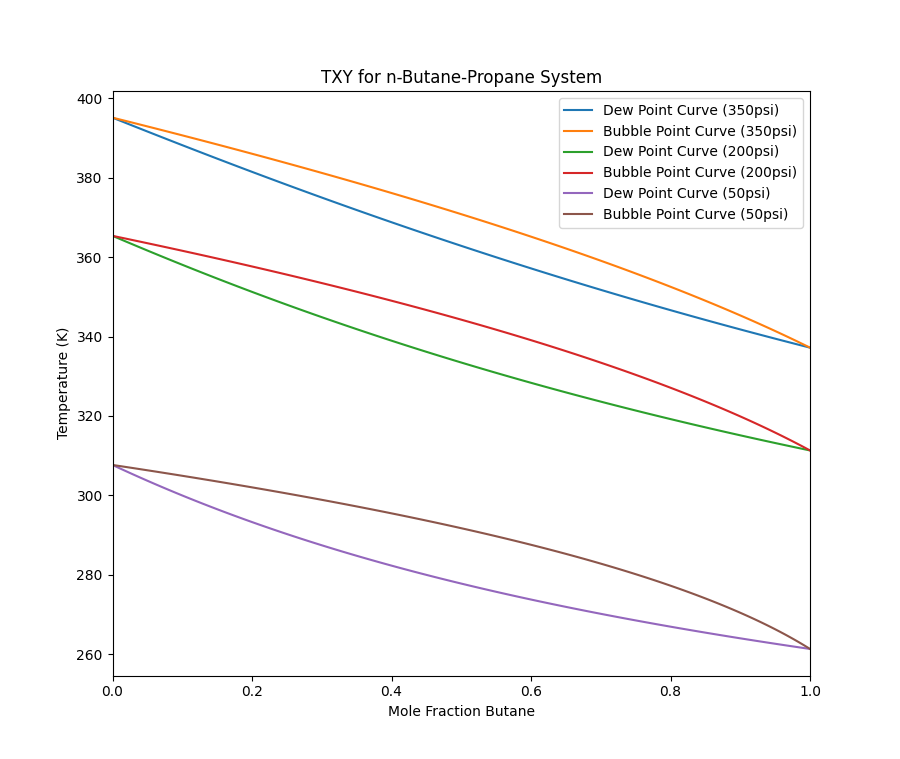
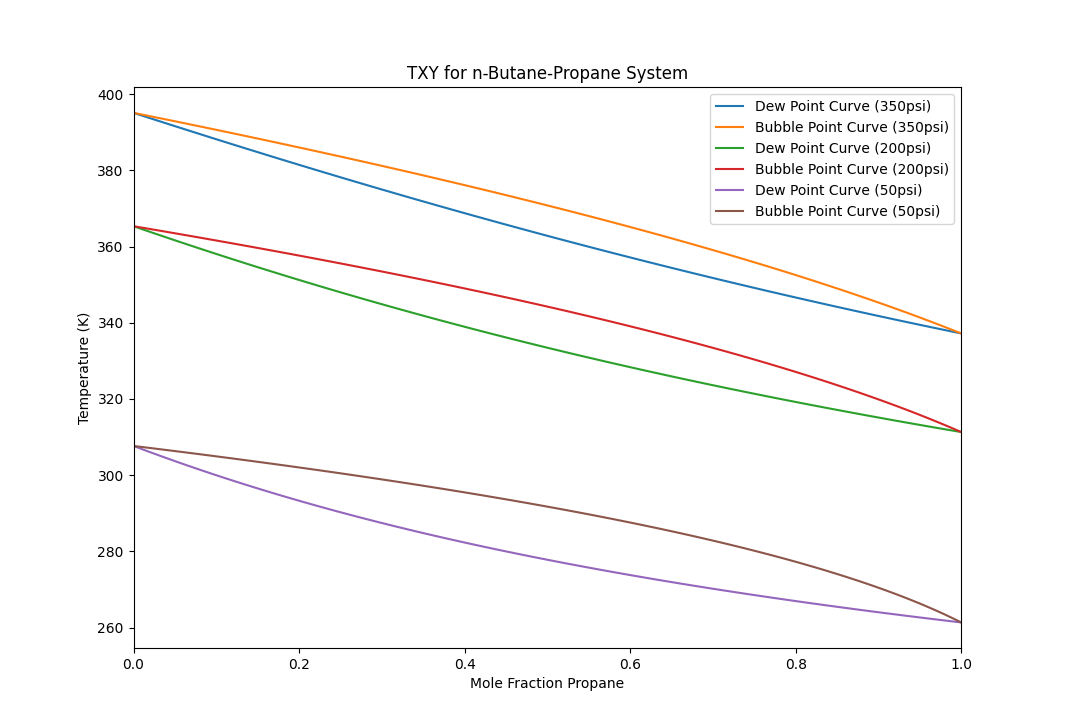
Fixed L6 Diagrams x-axis

diff --git a/Lab 6/Experiment6_Task6.py b/Lab 6/Experiment6_Task6.py
@@ -115,7 +115,7 @@ plt.plot(y_200, T_200 + 273.15, label='Bubble Point Curve (200psi)')
 plt.plot(x_50, T_50 + 273.15, label='Dew Point Curve (50psi)')
 plt.plot(y_50, T_50 + 273.15, label='Bubble Point Curve (50psi)')
 plt.legend()
-plt.xlabel('Mole Fraction Butane')
+plt.xlabel('Mole Fraction Propane')
 plt.ylabel('Temperature (K)')
 plt.title(f'TXY for n-Butane-Propane System')
 plt.xlim((0, 1))
@@ -125,8 +125,8 @@ plt.show()
 plt.plot(x_350, y_350, label='350psi')
 plt.plot(x_200, y_200, label='200psi')
 plt.plot(x_50, y_50, label='50psi')
-plt.xlabel('Liquid Mole Fraction Butane')
-plt.ylabel('Vapor Mole Fraction Butane')
+plt.xlabel('Liquid Mole Fraction Propane')
+plt.ylabel('Vapor Mole Fraction Propane')
 plt.title(f'XY Diagram for n-Butane-Propane System ')
 plt.legend()
 plt.xlim((0, 1))
